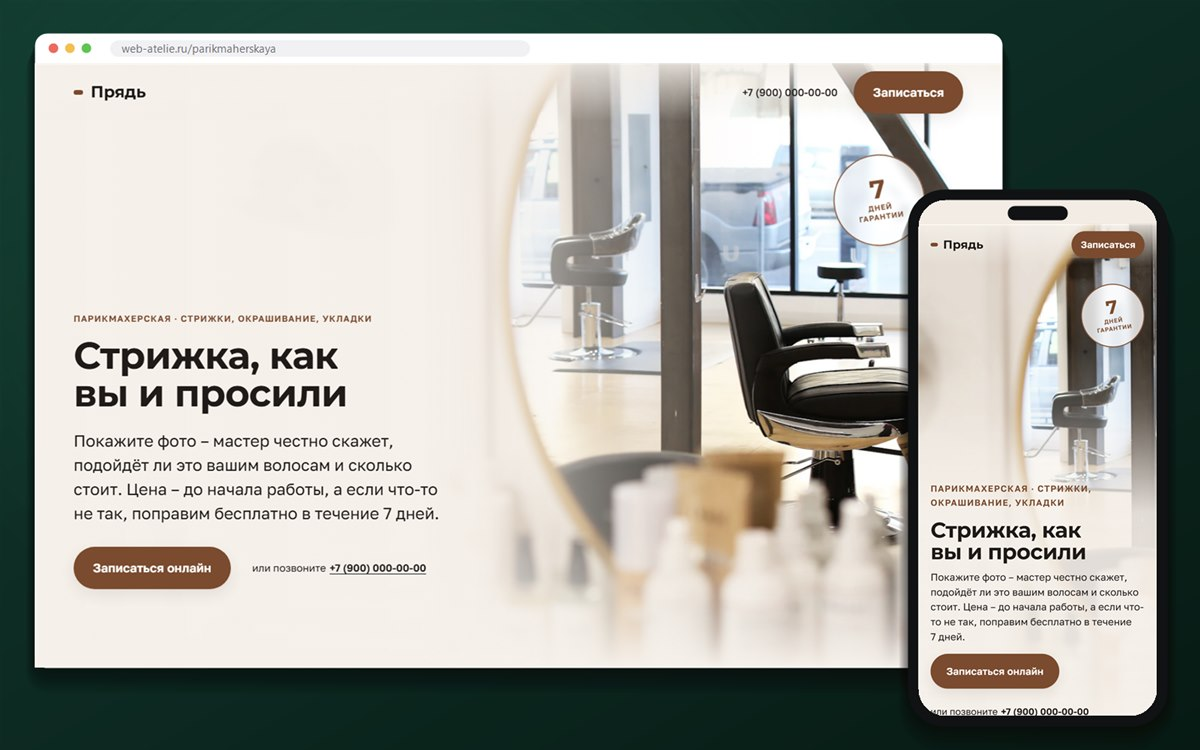
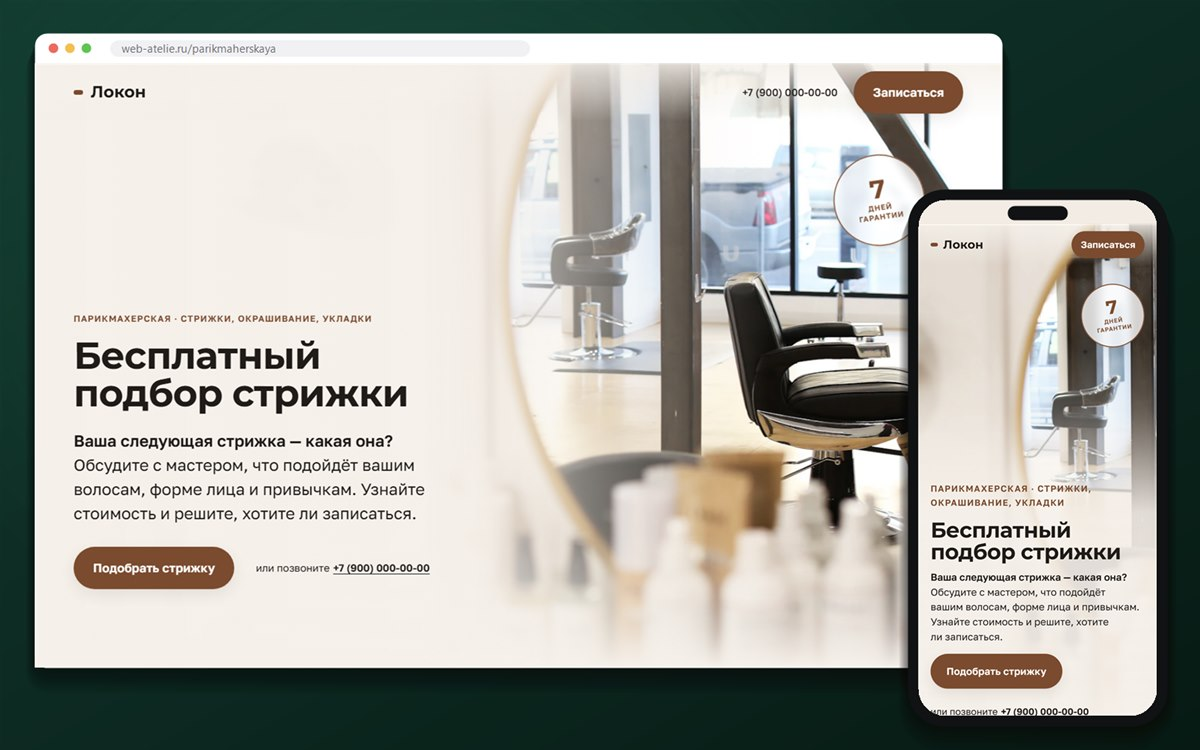
Главная: парикмахерская «Локон» – новое название и картинка

diff --git a/index.html b/index.html
@@ -180,7 +180,7 @@ const W=[
  ['barmenskaya-shkola','Школа «Джиггер»','Барменская школа'],
  ['cvety','Цветы с доставкой','Каталог букетов и заказ'],
  ['manikyur','Студия «Глянец»','Маникюр, прайс и запись'],
- ['parikmaherskaya','Парикмахерская «Прядь»','Прайс, мастера и онлайн-запись'],
+ ['parikmaherskaya','Парикмахерская «Локон»','Прайс, мастера и онлайн-запись'],
  ['podolog','Кабинет «Подолог рядом»','Подология: цены и запись на приём']
 ];
 document.getElementById('g').innerHTML=W.map(([r,n,d])=>`<a class="card rv" href="/${r}/" target="_blank" rel="noopener"><div class="shot"><img src="img/${r}.jpg" alt="${n}" loading="lazy"></div><div class="t"><h3>${n}</h3><p>${d}</p><span class="go">Открыть сайт →</span></div></a>`).join('');

diff --git a/index.template.html b/index.template.html
@@ -180,7 +180,7 @@ const W=[
  ['barmenskaya-shkola','Школа «Джиггер»','Барменская школа'],
  ['cvety','Цветы с доставкой','Каталог букетов и заказ'],
  ['manikyur','Студия «Глянец»','Маникюр, прайс и запись'],
- ['parikmaherskaya','Парикмахерская «Прядь»','Прайс, мастера и онлайн-запись'],
+ ['parikmaherskaya','Парикмахерская «Локон»','Прайс, мастера и онлайн-запись'],
  ['podolog','Кабинет «Подолог рядом»','Подология: цены и запись на приём']
 ];
 document.getElementById('g').innerHTML=W.map(([r,n,d])=>`<a class="card rv" href="/${r}/" target="_blank" rel="noopener"><div class="shot"><img src="img/${r}.jpg" alt="${n}" loading="lazy"></div><div class="t"><h3>${n}</h3><p>${d}</p><span class="go">Открыть сайт →</span></div></a>`).join('');
